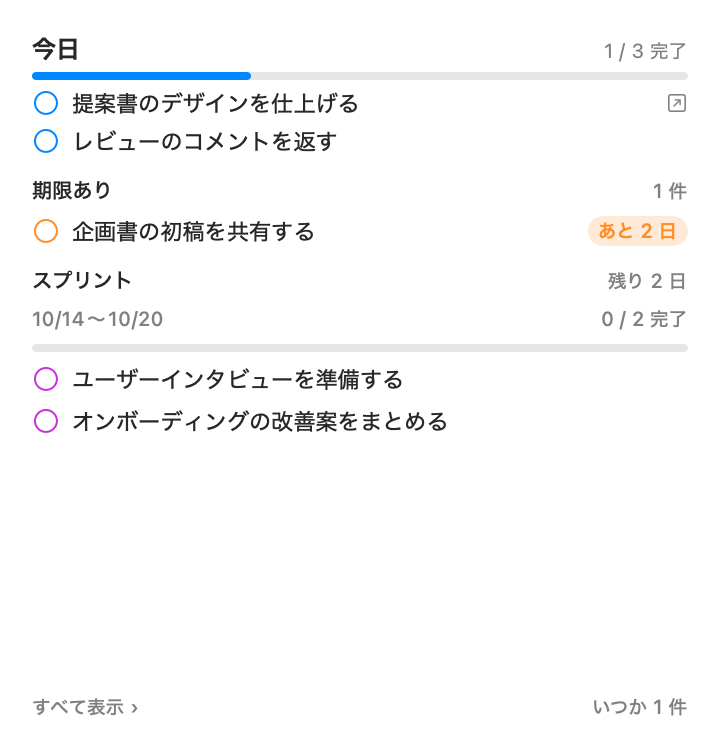
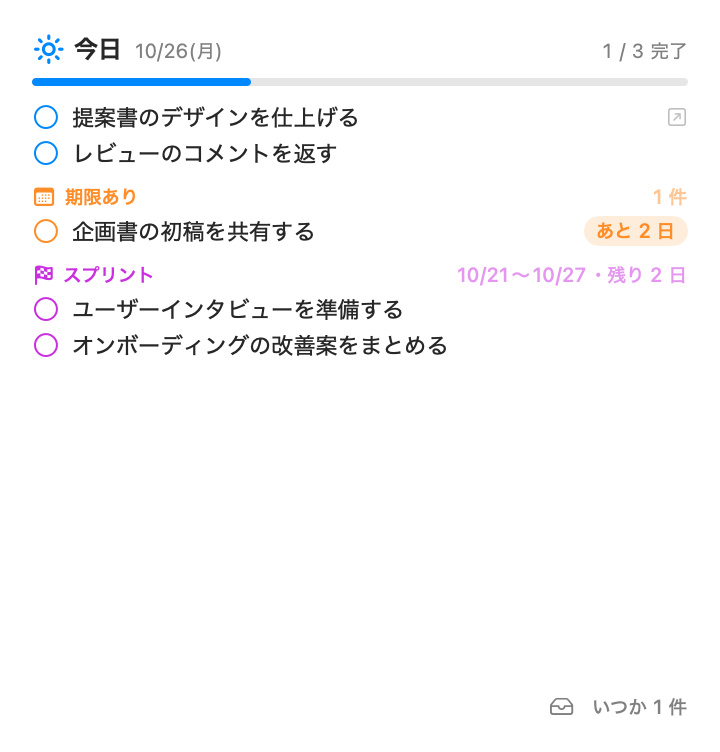
0.3.0 を公開する: latest.json、お知らせ、ウィジェットの画像を更新する
- latest.json を v0.3.0 のリリースに向ける
- お知らせに 0.3.0 を足し、0.2.0 の行はバージョンを固定する
- ウィジェットの画像を新しいデザインで書き出し直し、読み込みの URL に ?v=0.3.0 を付ける
- 入力の説明と README に音声入力を足す

diff --git a/site/index.html b/site/index.html
@@ -30,7 +30,7 @@
         <li><a href="#faq">よくあるご質問</a></li>
         <li><a href="https://github.com/GpAraki/watashi-no-hikidashi" target="_blank" rel="noopener">GitHub<span class="icon ext" aria-hidden="true">open_in_new</span></a></li>
       </ul>
-      <a class="pill pill-primary" href="https://github.com/GpAraki/watashi-no-hikidashi/releases/download/v0.2.0/Hikidashi-0.2.0.zip" data-download><span class="icon" aria-hidden="true">download</span>ダウンロード</a>
+      <a class="pill pill-primary" href="https://github.com/GpAraki/watashi-no-hikidashi/releases/download/v0.3.0/Hikidashi-0.3.0.zip" data-download><span class="icon" aria-hidden="true">download</span>ダウンロード</a>
     </nav>
   </div>
 </header>
@@ -47,16 +47,16 @@
         <h1 id="hero-title">やることは、<br>デスクトップの<br>引き出しに。</h1>
         <p class="hero-sub">Mac のための個人用タスク管理 <strong>私の引き出し</strong></p>
         <div class="cta">
-          <a class="pill pill-primary pill-lg" href="https://github.com/GpAraki/watashi-no-hikidashi/releases/download/v0.2.0/Hikidashi-0.2.0.zip" data-download><span class="icon" aria-hidden="true">download</span>macOS 版をダウンロード<span class="arrow" aria-hidden="true"><span class="icon">arrow_forward</span></span></a>
+          <a class="pill pill-primary pill-lg" href="https://github.com/GpAraki/watashi-no-hikidashi/releases/download/v0.3.0/Hikidashi-0.3.0.zip" data-download><span class="icon" aria-hidden="true">download</span>macOS 版をダウンロード<span class="arrow" aria-hidden="true"><span class="icon">arrow_forward</span></span></a>
           <a class="pill pill-lg" href="#about">引き出しについて<span class="arrow" aria-hidden="true"><span class="icon">arrow_downward</span></span></a>
         </div>
-        <p class="hero-meta">v<span data-version>0.2.0</span> · macOS 14 以降 · Apple Silicon / Intel · 公証済み · 無料</p>
+        <p class="hero-meta">v<span data-version>0.3.0</span> · macOS 14 以降 · Apple Silicon / Intel · 公証済み · 無料</p>
       </div>
 
       <div class="scene" role="img" aria-label="Mac のデスクトップに私の引き出しのウィジェットが並び、その上に入力パネルが浮かんでいる様子">
-        <div class="w w-large"><img src="assets/widget-large.png" alt="" width="720" height="752"></div>
-        <div class="w w-small"><img src="assets/widget-small.png" alt="" width="340" height="340"></div>
-        <div class="w w-medium"><img src="assets/widget-medium.png" alt="" width="720" height="340"></div>
+        <div class="w w-large"><img src="assets/widget-large.png?v=0.3.0" alt="" width="720" height="752"></div>
+        <div class="w w-small"><img src="assets/widget-small.png?v=0.3.0" alt="" width="340" height="340"></div>
+        <div class="w w-medium"><img src="assets/widget-medium.png?v=0.3.0" alt="" width="720" height="340"></div>
         <div class="qe" aria-hidden="true">
           <div class="line"><span class="icon">move_to_inbox</span><span>提案書のレビュー依頼を送る<span class="caret"></span></span></div>
           <div class="chips">
@@ -109,7 +109,8 @@
         <a class="pill" href="https://github.com/GpAraki/watashi-no-hikidashi/releases" target="_blank" rel="noopener">すべて見る<span class="arrow" aria-hidden="true"><span class="icon">arrow_forward</span></span></a>
       </div>
       <ul class="news-list">
-        <li><a href="https://github.com/GpAraki/watashi-no-hikidashi/releases/tag/v0.2.0" data-notes target="_blank" rel="noopener"><time data-published-long>2026.10.25</time><span>Hikidashi <span data-version>0.2.0</span> を公開しました。日報、浮かぶ入力パネル、Claude との連携が入りました。</span><span class="arrow" aria-hidden="true"><span class="icon">arrow_forward</span></span></a></li>
+        <li><a href="https://github.com/GpAraki/watashi-no-hikidashi/releases/tag/v0.3.0" data-notes target="_blank" rel="noopener"><time data-published-long>2026.10.26</time><span>Hikidashi <span data-version>0.3.0</span> を公開しました。音声での入力が入り、メニューバーとウィジェットの見た目を作り直しました。</span><span class="arrow" aria-hidden="true"><span class="icon">arrow_forward</span></span></a></li>
+        <li><a href="https://github.com/GpAraki/watashi-no-hikidashi/releases/tag/v0.2.0" target="_blank" rel="noopener"><time>2026.10.25</time><span>Hikidashi 0.2.0 を公開しました。日報、浮かぶ入力パネル、Claude との連携が入りました。</span><span class="arrow" aria-hidden="true"><span class="icon">arrow_forward</span></span></a></li>
       </ul>
     </div>
   </section>
@@ -145,7 +146,7 @@
           <div class="panel-copy">
             <p class="num">01</p>
             <h3 id="p1-title">思いついたら、<br>その場で入れる</h3>
-            <p>どのアプリを使っていても、<kbd>⌃</kbd><kbd>⌥</kbd><kbd>Space</kbd> で入力パネルが浮かび、Return で追加して閉じます。作業中のアプリはそのまま。メールやチャットの文字を選んで右クリック →「引き出しにタスクを追加」でも入れられます。1 行目がタイトル、残りがメモ、URL はリンクになります。</p>
+            <p>どのアプリを使っていても、<kbd>⌃</kbd><kbd>⌥</kbd><kbd>Space</kbd> で入力パネルが浮かび、Return で追加して閉じます。作業中のアプリはそのまま。メールやチャットの文字を選んで右クリック →「引き出しにタスクを追加」でも入れられます。1 行目がタイトル、残りがメモ、URL はリンクになります。マイクのボタンを押せば、話して入れることもできます(音声は Mac の中だけで文字にします)。</p>
           </div>
         </div>
       </article>
@@ -154,8 +155,8 @@
         <div class="blob p-blob" aria-hidden="true"></div>
         <div class="wrap panel-grid">
           <div class="tile tile-widgets">
-            <div class="wimg wm"><img src="assets/widget-medium.png" alt="" width="720" height="340" loading="lazy"></div>
-            <div class="wimg ws"><img src="assets/widget-small.png" alt="" width="340" height="340" loading="lazy"></div>
+            <div class="wimg wm"><img src="assets/widget-medium.png?v=0.3.0" alt="" width="720" height="340" loading="lazy"></div>
+            <div class="wimg ws"><img src="assets/widget-small.png?v=0.3.0" alt="" width="340" height="340" loading="lazy"></div>
           </div>
           <div class="panel-copy">
             <p class="num">02</p>
@@ -277,7 +278,7 @@
         <li class="step c-today">
           <div class="svis"><span class="icon big" aria-hidden="true">download</span></div>
           <p class="label">Step 1</p><h3>ダウンロード</h3>
-          <p>下のボタンから <b>Hikidashi-<span data-version>0.2.0</span>.zip</b> をダウンロードして開きます。</p>
+          <p>下のボタンから <b>Hikidashi-<span data-version>0.3.0</span>.zip</b> をダウンロードして開きます。</p>
         </li>
         <li class="step c-sky">
           <div class="svis"><span class="icon big" aria-hidden="true">drive_file_move</span></div>
@@ -285,7 +286,7 @@
           <p><b>Hikidashi.app を「アプリケーション」フォルダへ移動</b>してから開きます。メニューバーにトレイのアイコンが出たら準備完了。</p>
         </li>
         <li class="step c-deadline">
-          <div class="svis"><div class="wimg mini"><img src="assets/widget-small.png" alt="" width="340" height="340" loading="lazy"></div></div>
+          <div class="svis"><div class="wimg mini"><img src="assets/widget-small.png?v=0.3.0" alt="" width="340" height="340" loading="lazy"></div></div>
           <p class="label">Step 3</p><h3>ウィジェットを置く</h3>
           <p>デスクトップを右クリック →「ウィジェットを編集」→「私の引き出し」を置きます。<kbd>⌃</kbd><kbd>⌥</kbd><kbd>Space</kbd> で最初のタスクを。</p>
         </li>
@@ -356,17 +357,17 @@
       <div class="dl-copy">
         <h2 id="dl-title">アプリケーションに置いて、<br>開くだけ。</h2>
         <p>今日のタスクが、デスクトップに並びます。<br>Claude との連携は、あとからでも。</p>
-        <a class="pill pill-primary pill-lg" href="https://github.com/GpAraki/watashi-no-hikidashi/releases/download/v0.2.0/Hikidashi-0.2.0.zip" data-download><span class="icon" aria-hidden="true">download</span>Hikidashi <span data-version>0.2.0</span> をダウンロード<span class="arrow" aria-hidden="true"><span class="icon">arrow_forward</span></span></a>
+        <a class="pill pill-primary pill-lg" href="https://github.com/GpAraki/watashi-no-hikidashi/releases/download/v0.3.0/Hikidashi-0.3.0.zip" data-download><span class="icon" aria-hidden="true">download</span>Hikidashi <span data-version>0.3.0</span> をダウンロード<span class="arrow" aria-hidden="true"><span class="icon">arrow_forward</span></span></a>
         <ul class="spec">
           <li><span class="icon" aria-hidden="true">laptop_mac</span>macOS 14 Sonoma 以降</li>
           <li><span class="icon" aria-hidden="true">memory</span>Apple Silicon / Intel</li>
           <li><span class="icon" aria-hidden="true">verified_user</span>Developer ID 署名・公証済み</li>
           <li><span class="icon" aria-hidden="true">database</span>データはローカルの SQLite</li>
         </ul>
-        <p class="sha">公開 <span data-published>10/25(日)</span> · <a href="https://github.com/GpAraki/watashi-no-hikidashi/releases/tag/v0.2.0" data-notes target="_blank" rel="noopener">リリースノート</a><br>SHA-256: <code data-sha256>3649731013b09e80b288a1b0b0c2863233b678ef58badc63f828722df3fecd67</code></p>
+        <p class="sha">公開 <span data-published>10/26(月)</span> · <a href="https://github.com/GpAraki/watashi-no-hikidashi/releases/tag/v0.3.0" data-notes target="_blank" rel="noopener">リリースノート</a><br>SHA-256: <code data-sha256>1893fdc3bb8283af97988ac37e701cc26b88b1851ebc53f9b99b54354df0e782</code></p>
       </div>
       <div class="dl-vis" aria-hidden="true">
-        <div class="wimg lg"><img src="assets/widget-large.png" alt="" width="720" height="752" loading="lazy"></div>
+        <div class="wimg lg"><img src="assets/widget-large.png?v=0.3.0" alt="" width="720" height="752" loading="lazy"></div>
         <img class="dl-icon" src="assets/app-icon.png" alt="" width="512" height="512">
       </div>
     </div>
@@ -393,7 +394,7 @@
       </nav>
       <div class="foot-dl">
         <small>macOS 14 以降で、無料で使えます</small>
-        <a class="pill pill-primary" href="https://github.com/GpAraki/watashi-no-hikidashi/releases/download/v0.2.0/Hikidashi-0.2.0.zip" data-download><span class="icon" aria-hidden="true">download</span>macOS 版をダウンロード</a>
+        <a class="pill pill-primary" href="https://github.com/GpAraki/watashi-no-hikidashi/releases/download/v0.3.0/Hikidashi-0.3.0.zip" data-download><span class="icon" aria-hidden="true">download</span>macOS 版をダウンロード</a>
       </div>
     </div>
     <div class="foot-bottom">
